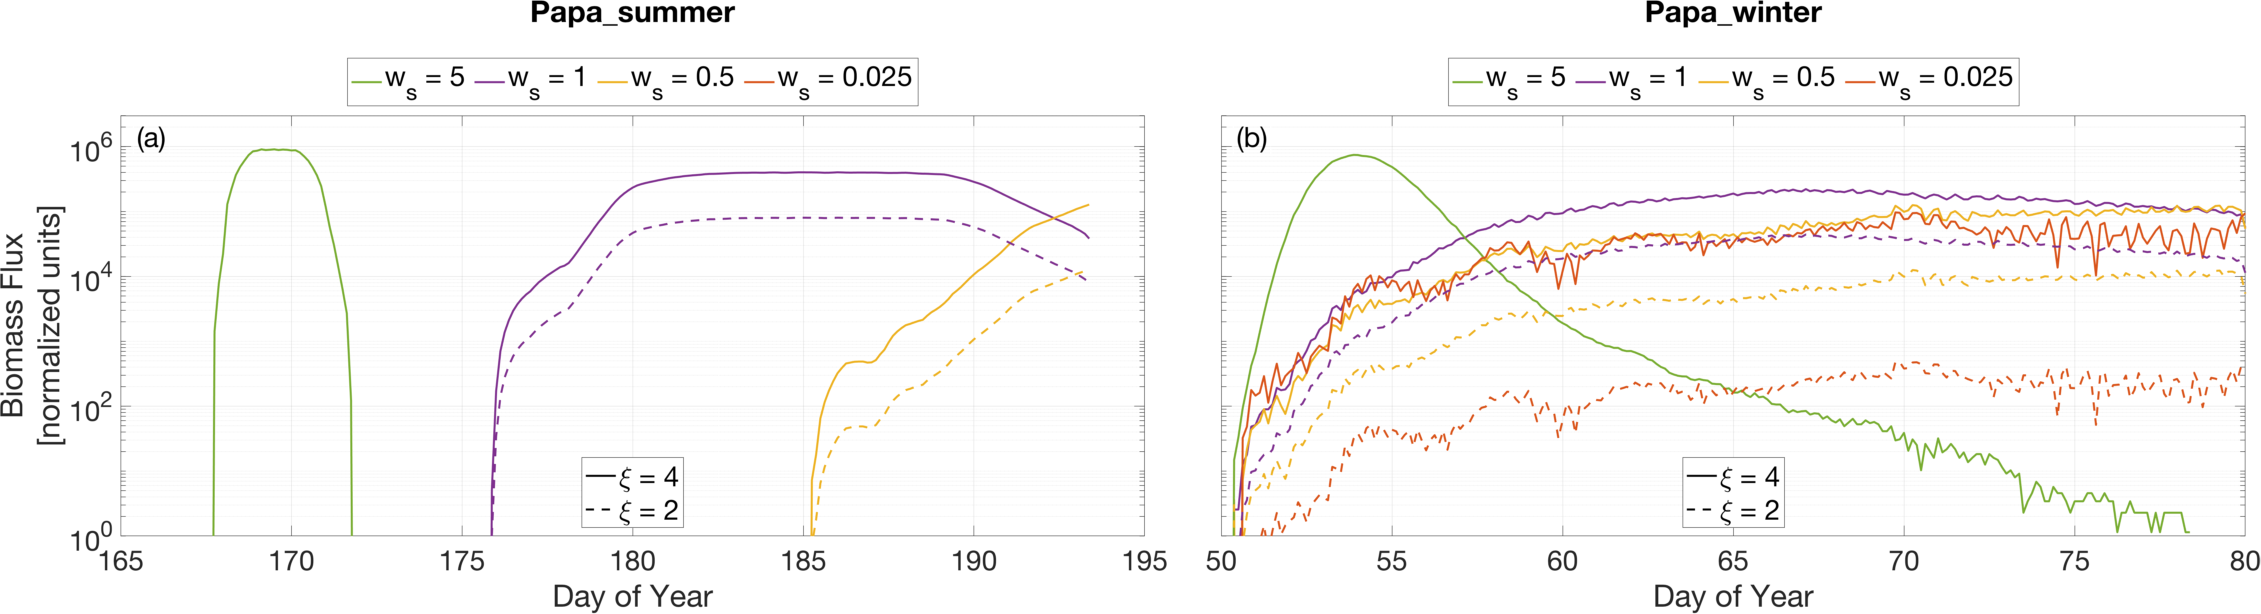
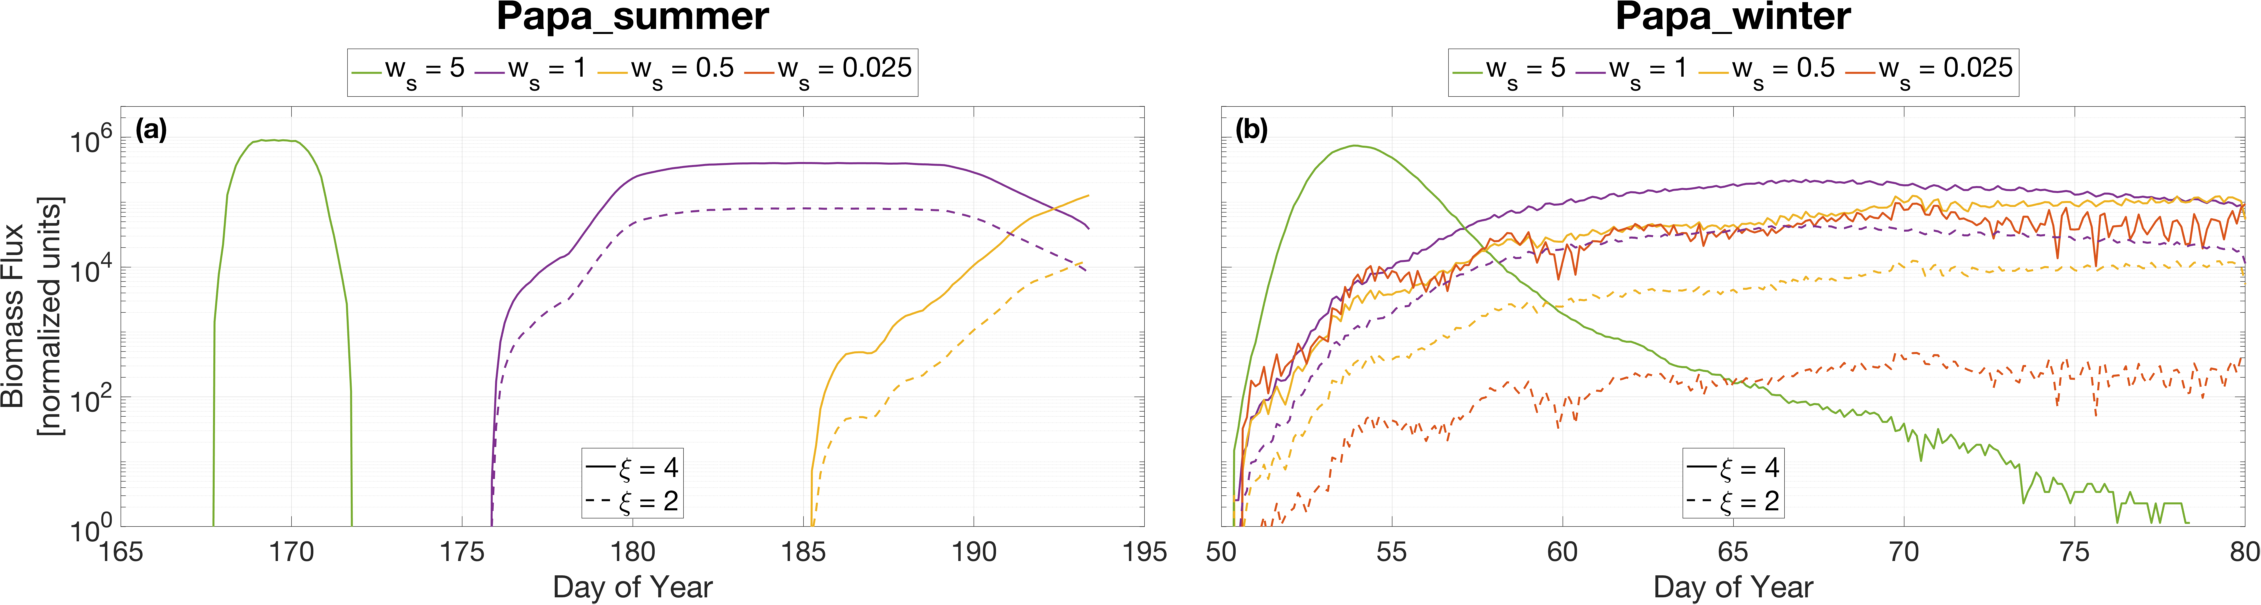
update Fig6b

diff --git a/figures/code/Fig6b_biomass_export_flux.m b/figures/code/Fig6b_biomass_export_flux.m
@@ -269,8 +269,8 @@ for slope = [4 2]
     
     % Annotations
     if counter == 1
-        text(0.03,0.95,'(a)','fontsize',28,'HorizontalAlignment','center','edgecolor','w','Units','normalized')
-        text(0.5,1.25,'Papa\_summer','HorizontalAlignment','center','FontWeight','b','FontSize',30,'Units','normalized')
+        h = text(0.03,0.95,'(a)','fontsize',28,'HorizontalAlignment','center','edgecolor','none','Units','normalized','FontWeight','b','BackgroundColor','none')
+        text(0.5,1.22,'Papa\_summer','HorizontalAlignment','center','FontWeight','b','FontSize',40,'Units','normalized')
     end
     
     % Second legend
@@ -325,8 +325,8 @@ for slope = [4 2]
     
     % Annotations
     if counter == 1
-        text(0.03,0.95,'(b)','fontsize',28,'HorizontalAlignment','center','edgecolor','w','Units','normalized')
-        text(0.5,1.25,'Papa\_winter','HorizontalAlignment','center','FontWeight','b','FontSize',30,'Units','normalized')
+        text(0.03,0.95,'(b)','fontsize',28,'HorizontalAlignment','center','edgecolor','none','Units','normalized','FontWeight','b','BackgroundColor','none')
+        text(0.5,1.22,'Papa\_winter','HorizontalAlignment','center','FontWeight','b','FontSize',40,'Units','normalized')
     end
     
     % Second legend
